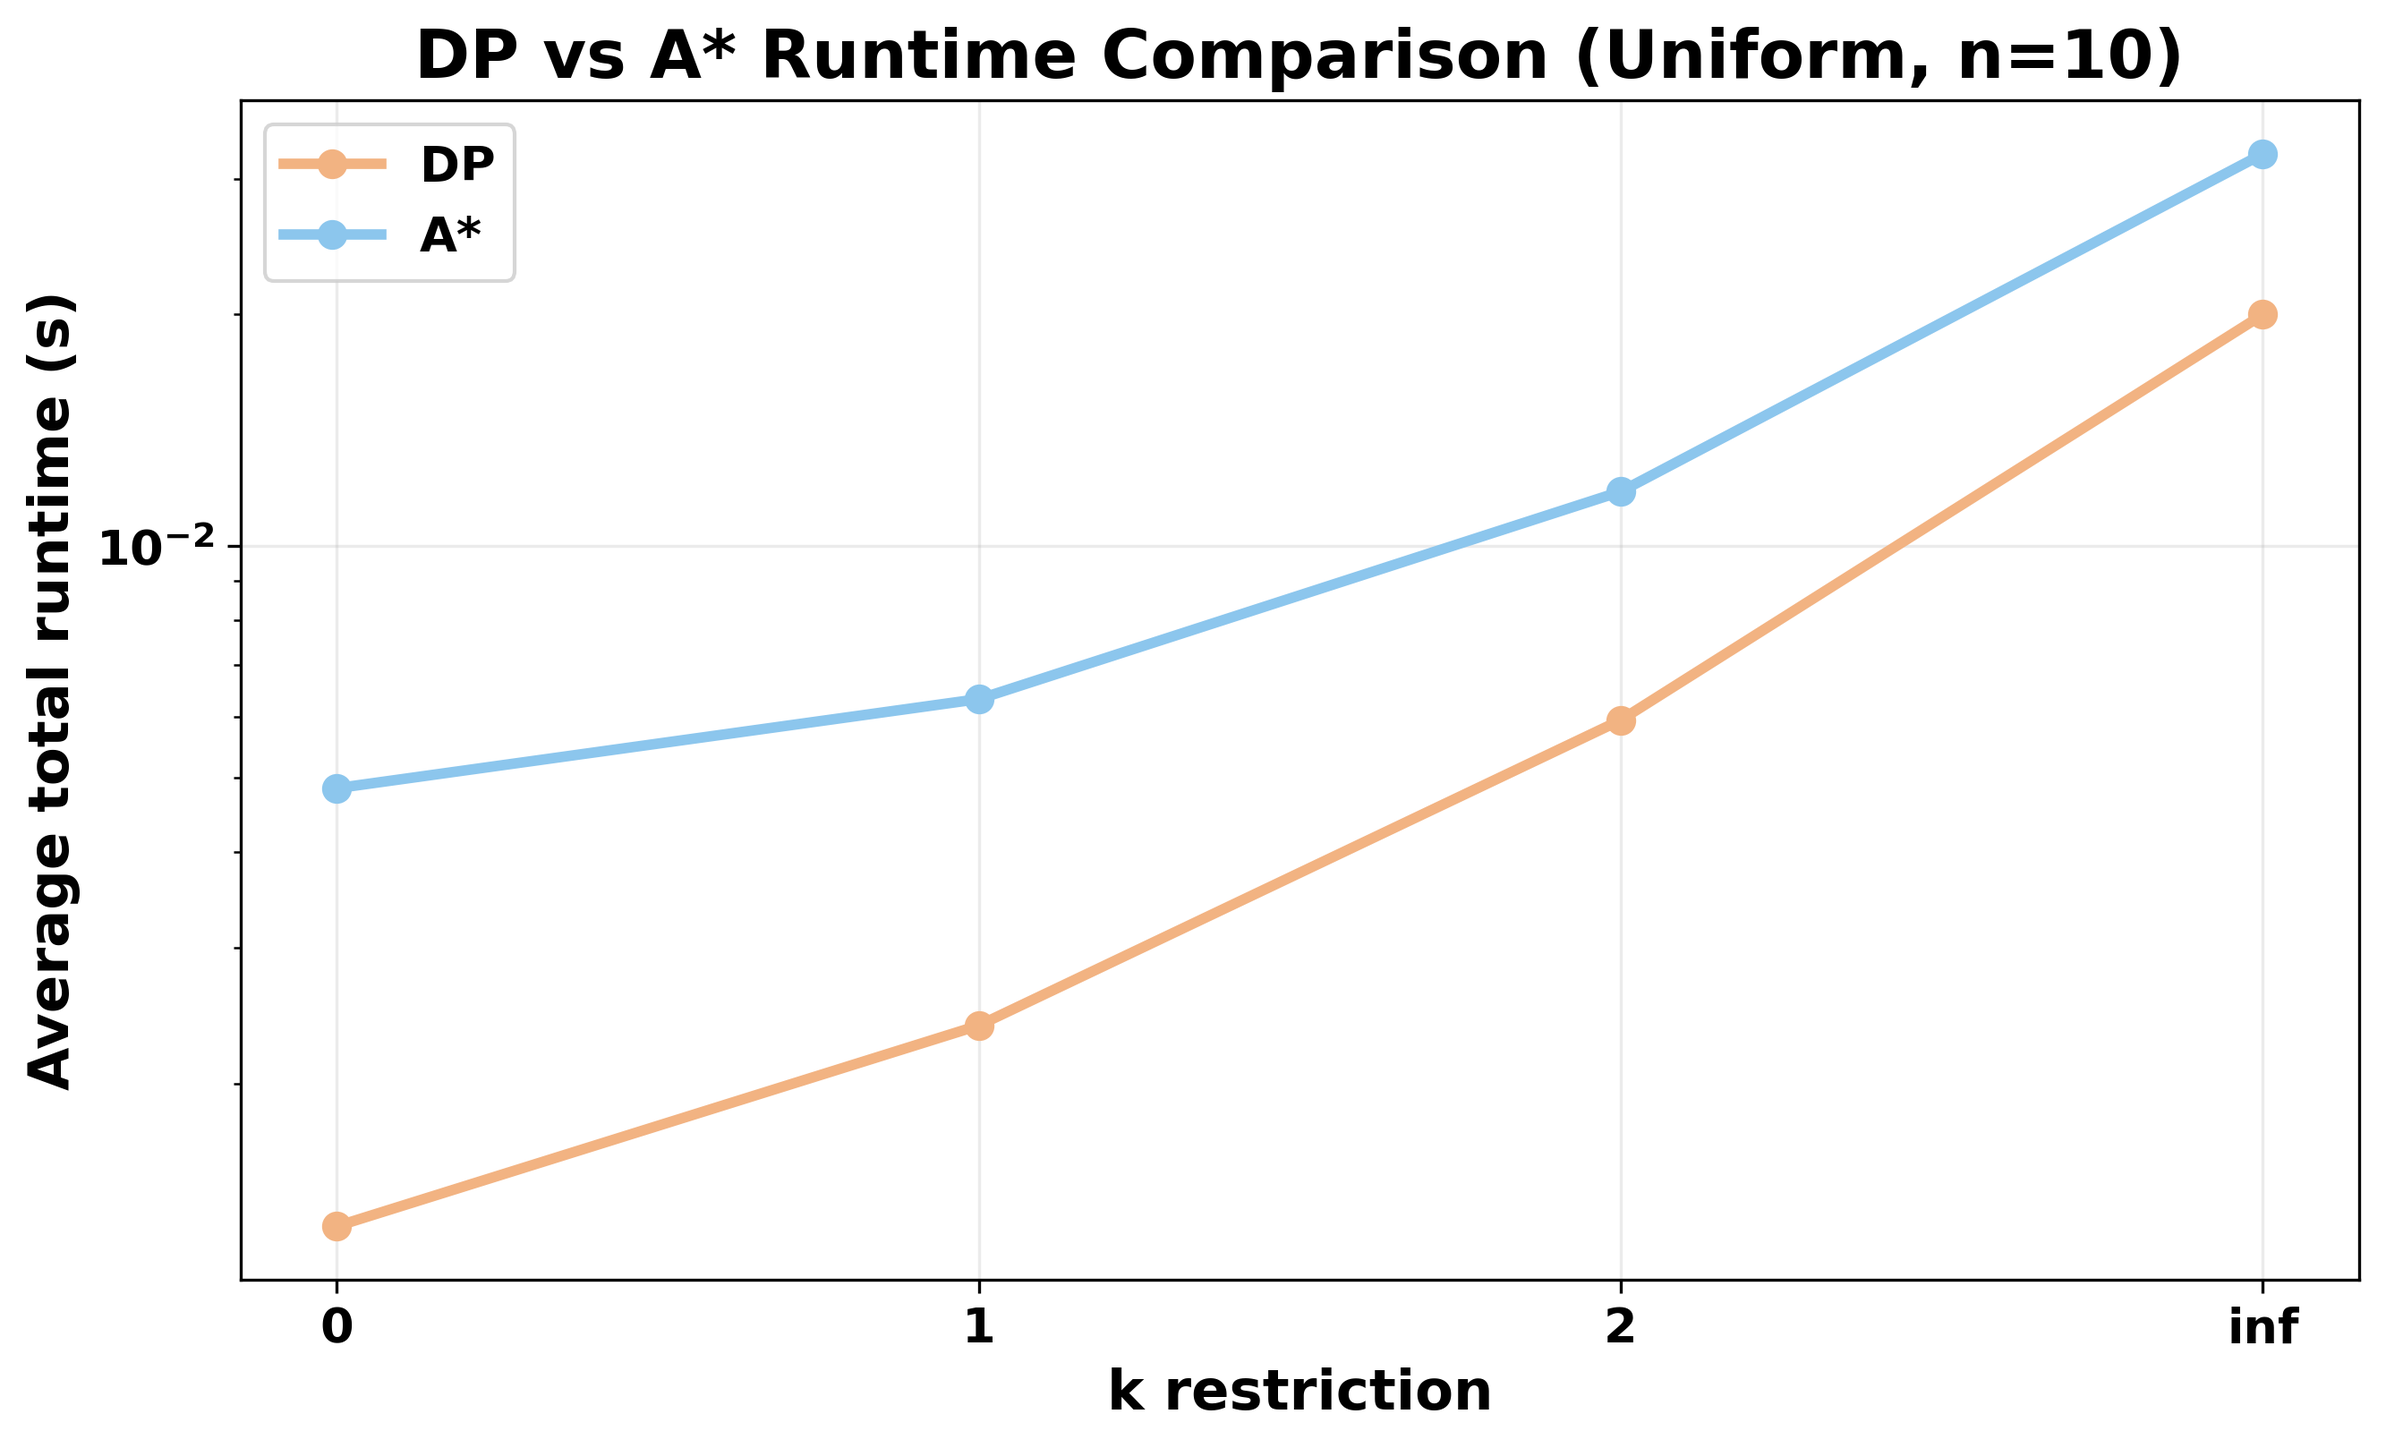
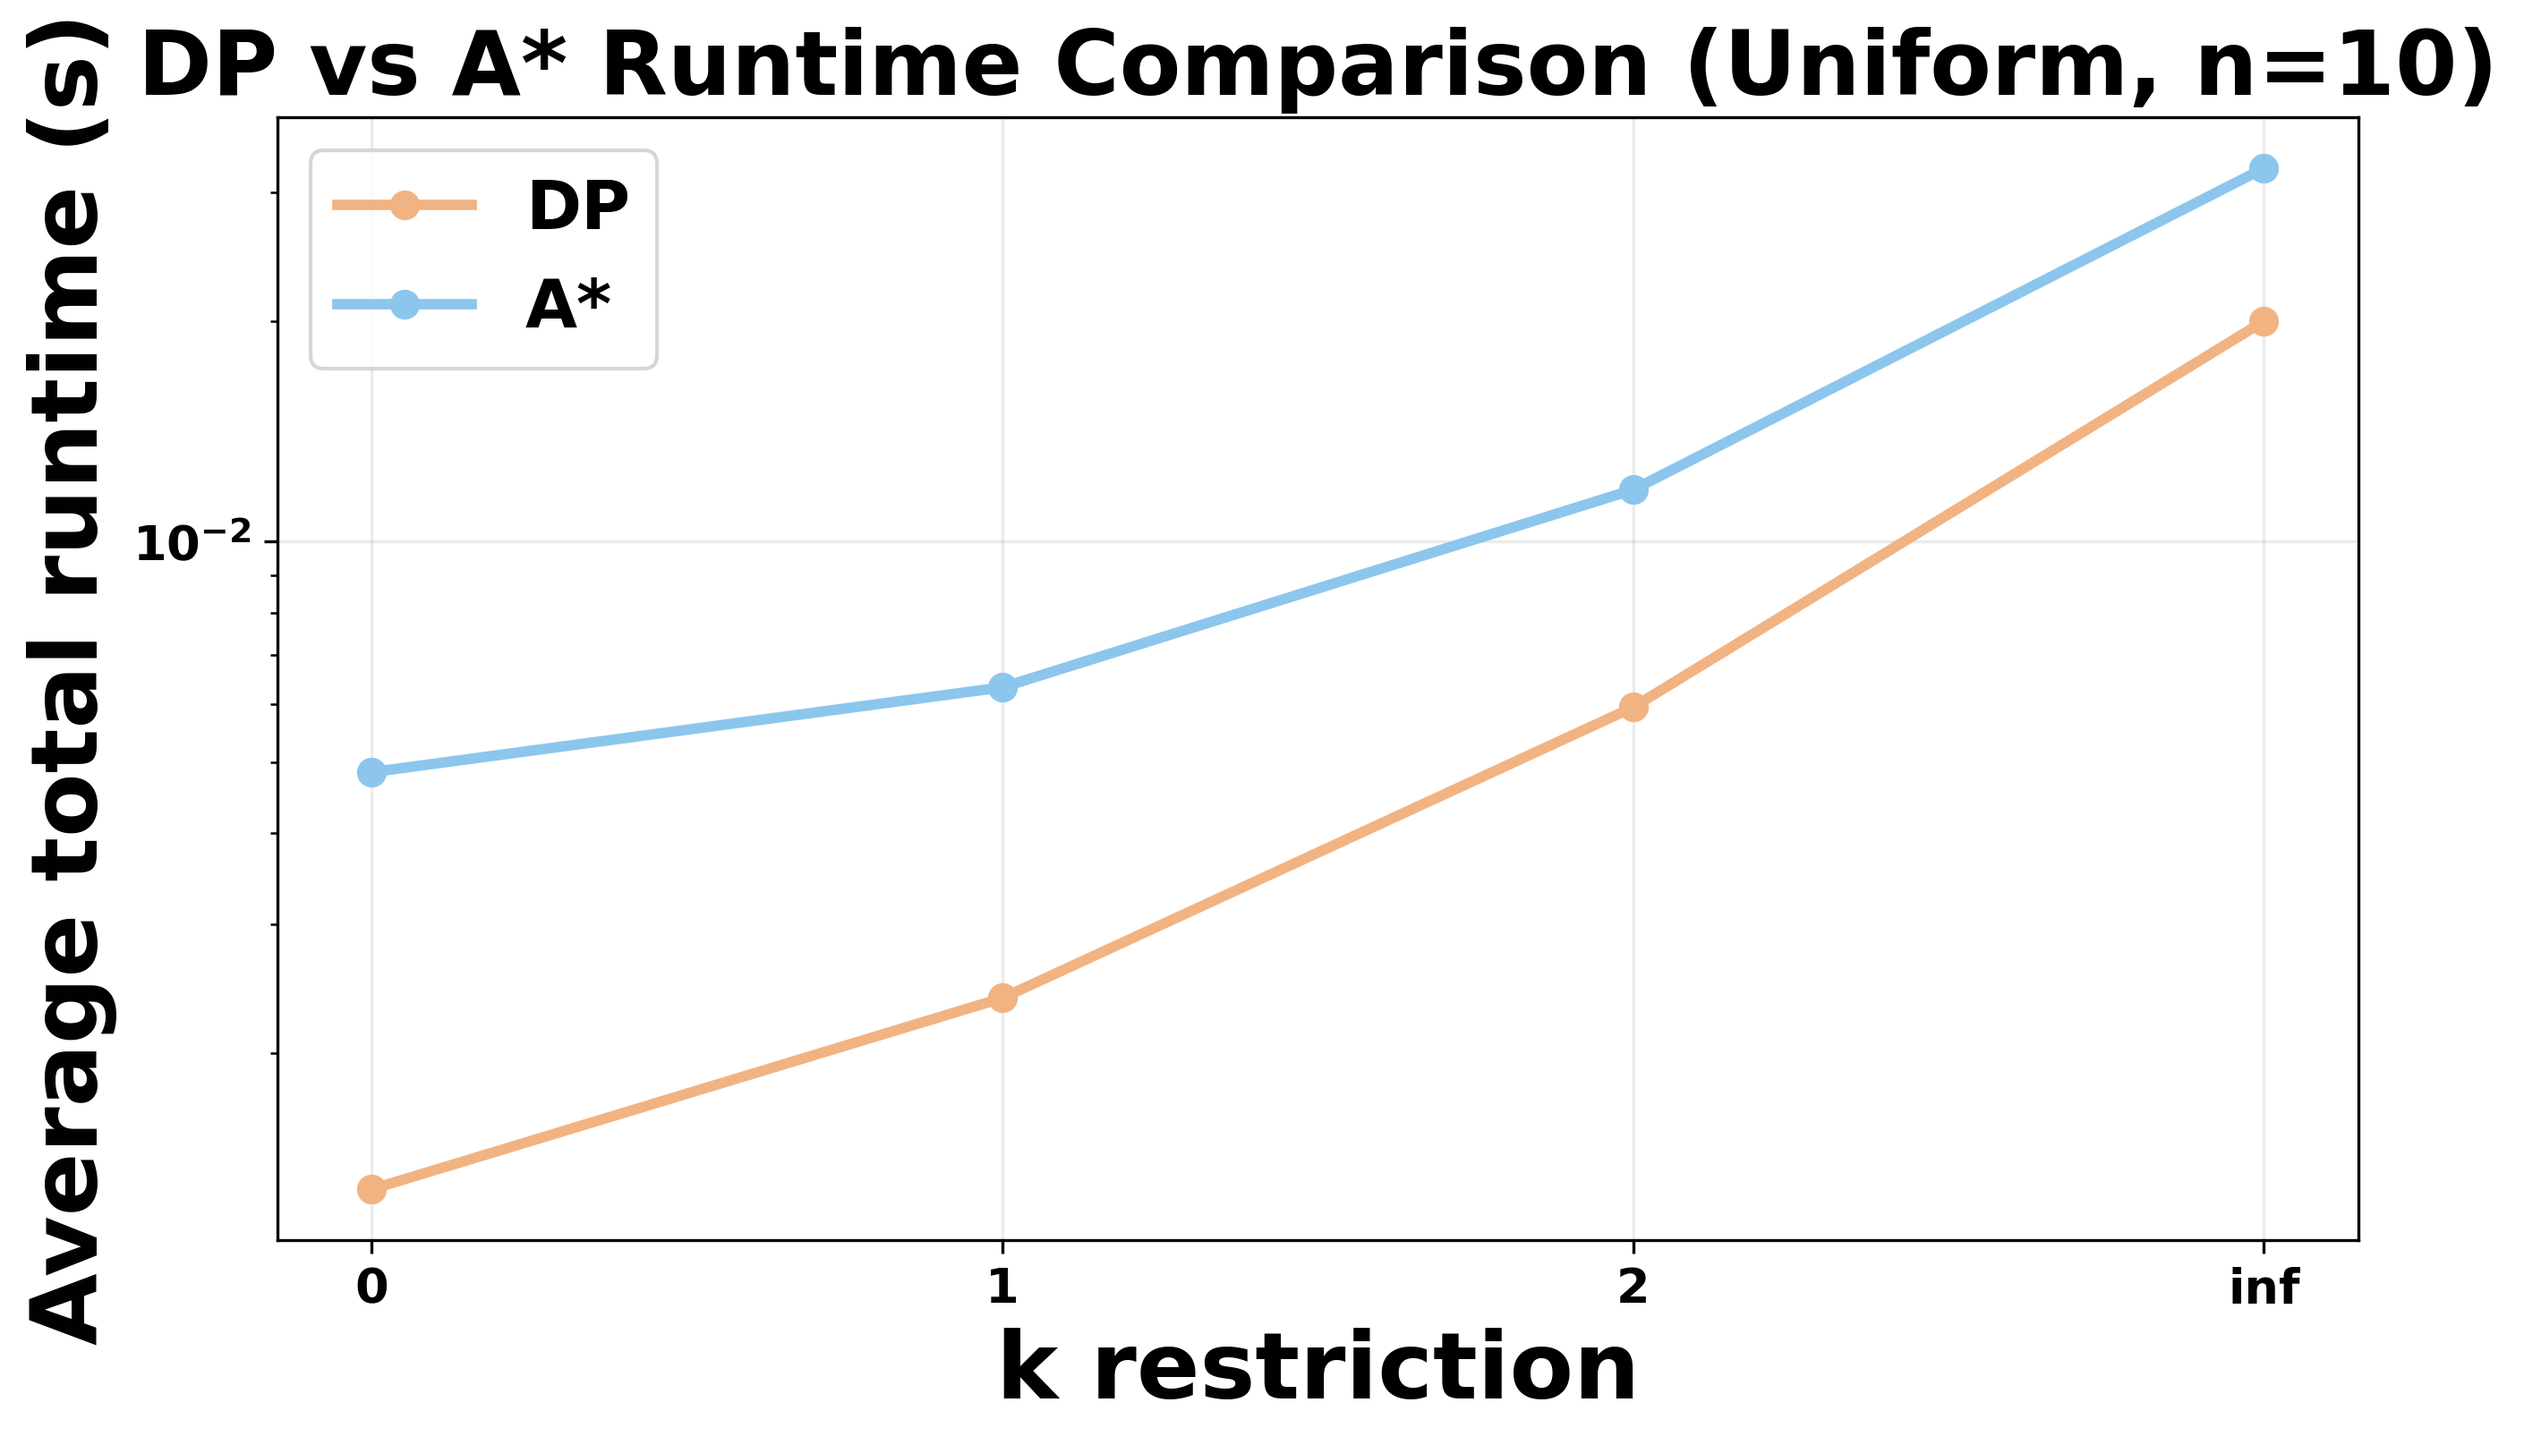
figures

diff --git a/tspd_cpp_repro/plot_tspd_results.py b/tspd_cpp_repro/plot_tspd_results.py
@@ -16,12 +16,12 @@ plt.rcParams["font.sans-serif"] = ["DejaVu Sans"]
 plt.rcParams["font.weight"] = "bold"
 plt.rcParams["axes.titleweight"] = "bold"
 plt.rcParams["axes.labelweight"] = "bold"
-plt.rcParams["axes.titlesize"] = 18
-plt.rcParams["axes.labelsize"] = 15
+plt.rcParams["axes.titlesize"] = 25
+plt.rcParams["axes.labelsize"] = 24
 plt.rcParams["xtick.labelsize"] = 13
 plt.rcParams["ytick.labelsize"] = 13
-plt.rcParams["legend.fontsize"] = 13
-plt.rcParams["figure.titlesize"] = 18
+plt.rcParams["legend.fontsize"] = 18
+plt.rcParams["figure.titlesize"] = 26
 
 COLOR_ORANGE = "#F2B382"
 COLOR_BLUE   = "#8CC6ED"
@@ -866,11 +866,11 @@ if not summary.empty:
     # ax.add_artist(con2)
 
         # ================= 字体整体放大：论文图更清晰 =================
-    ax.set_xlabel("Number of nodes n", fontsize=19, fontweight="bold")
-    ax.set_ylabel("Average runtime (s)", fontsize=19, fontweight="bold")
+    ax.set_xlabel("Number of nodes n", fontsize=26, fontweight="bold")
+    ax.set_ylabel("Average runtime (s)", fontsize=28, fontweight="bold")
     ax.set_title(
         "Runtime Breakdown by Pass (Uniform, DP, k=inf)",
-        fontsize=21,
+        fontsize=23,
         fontweight="bold",
         pad=14,
     )
